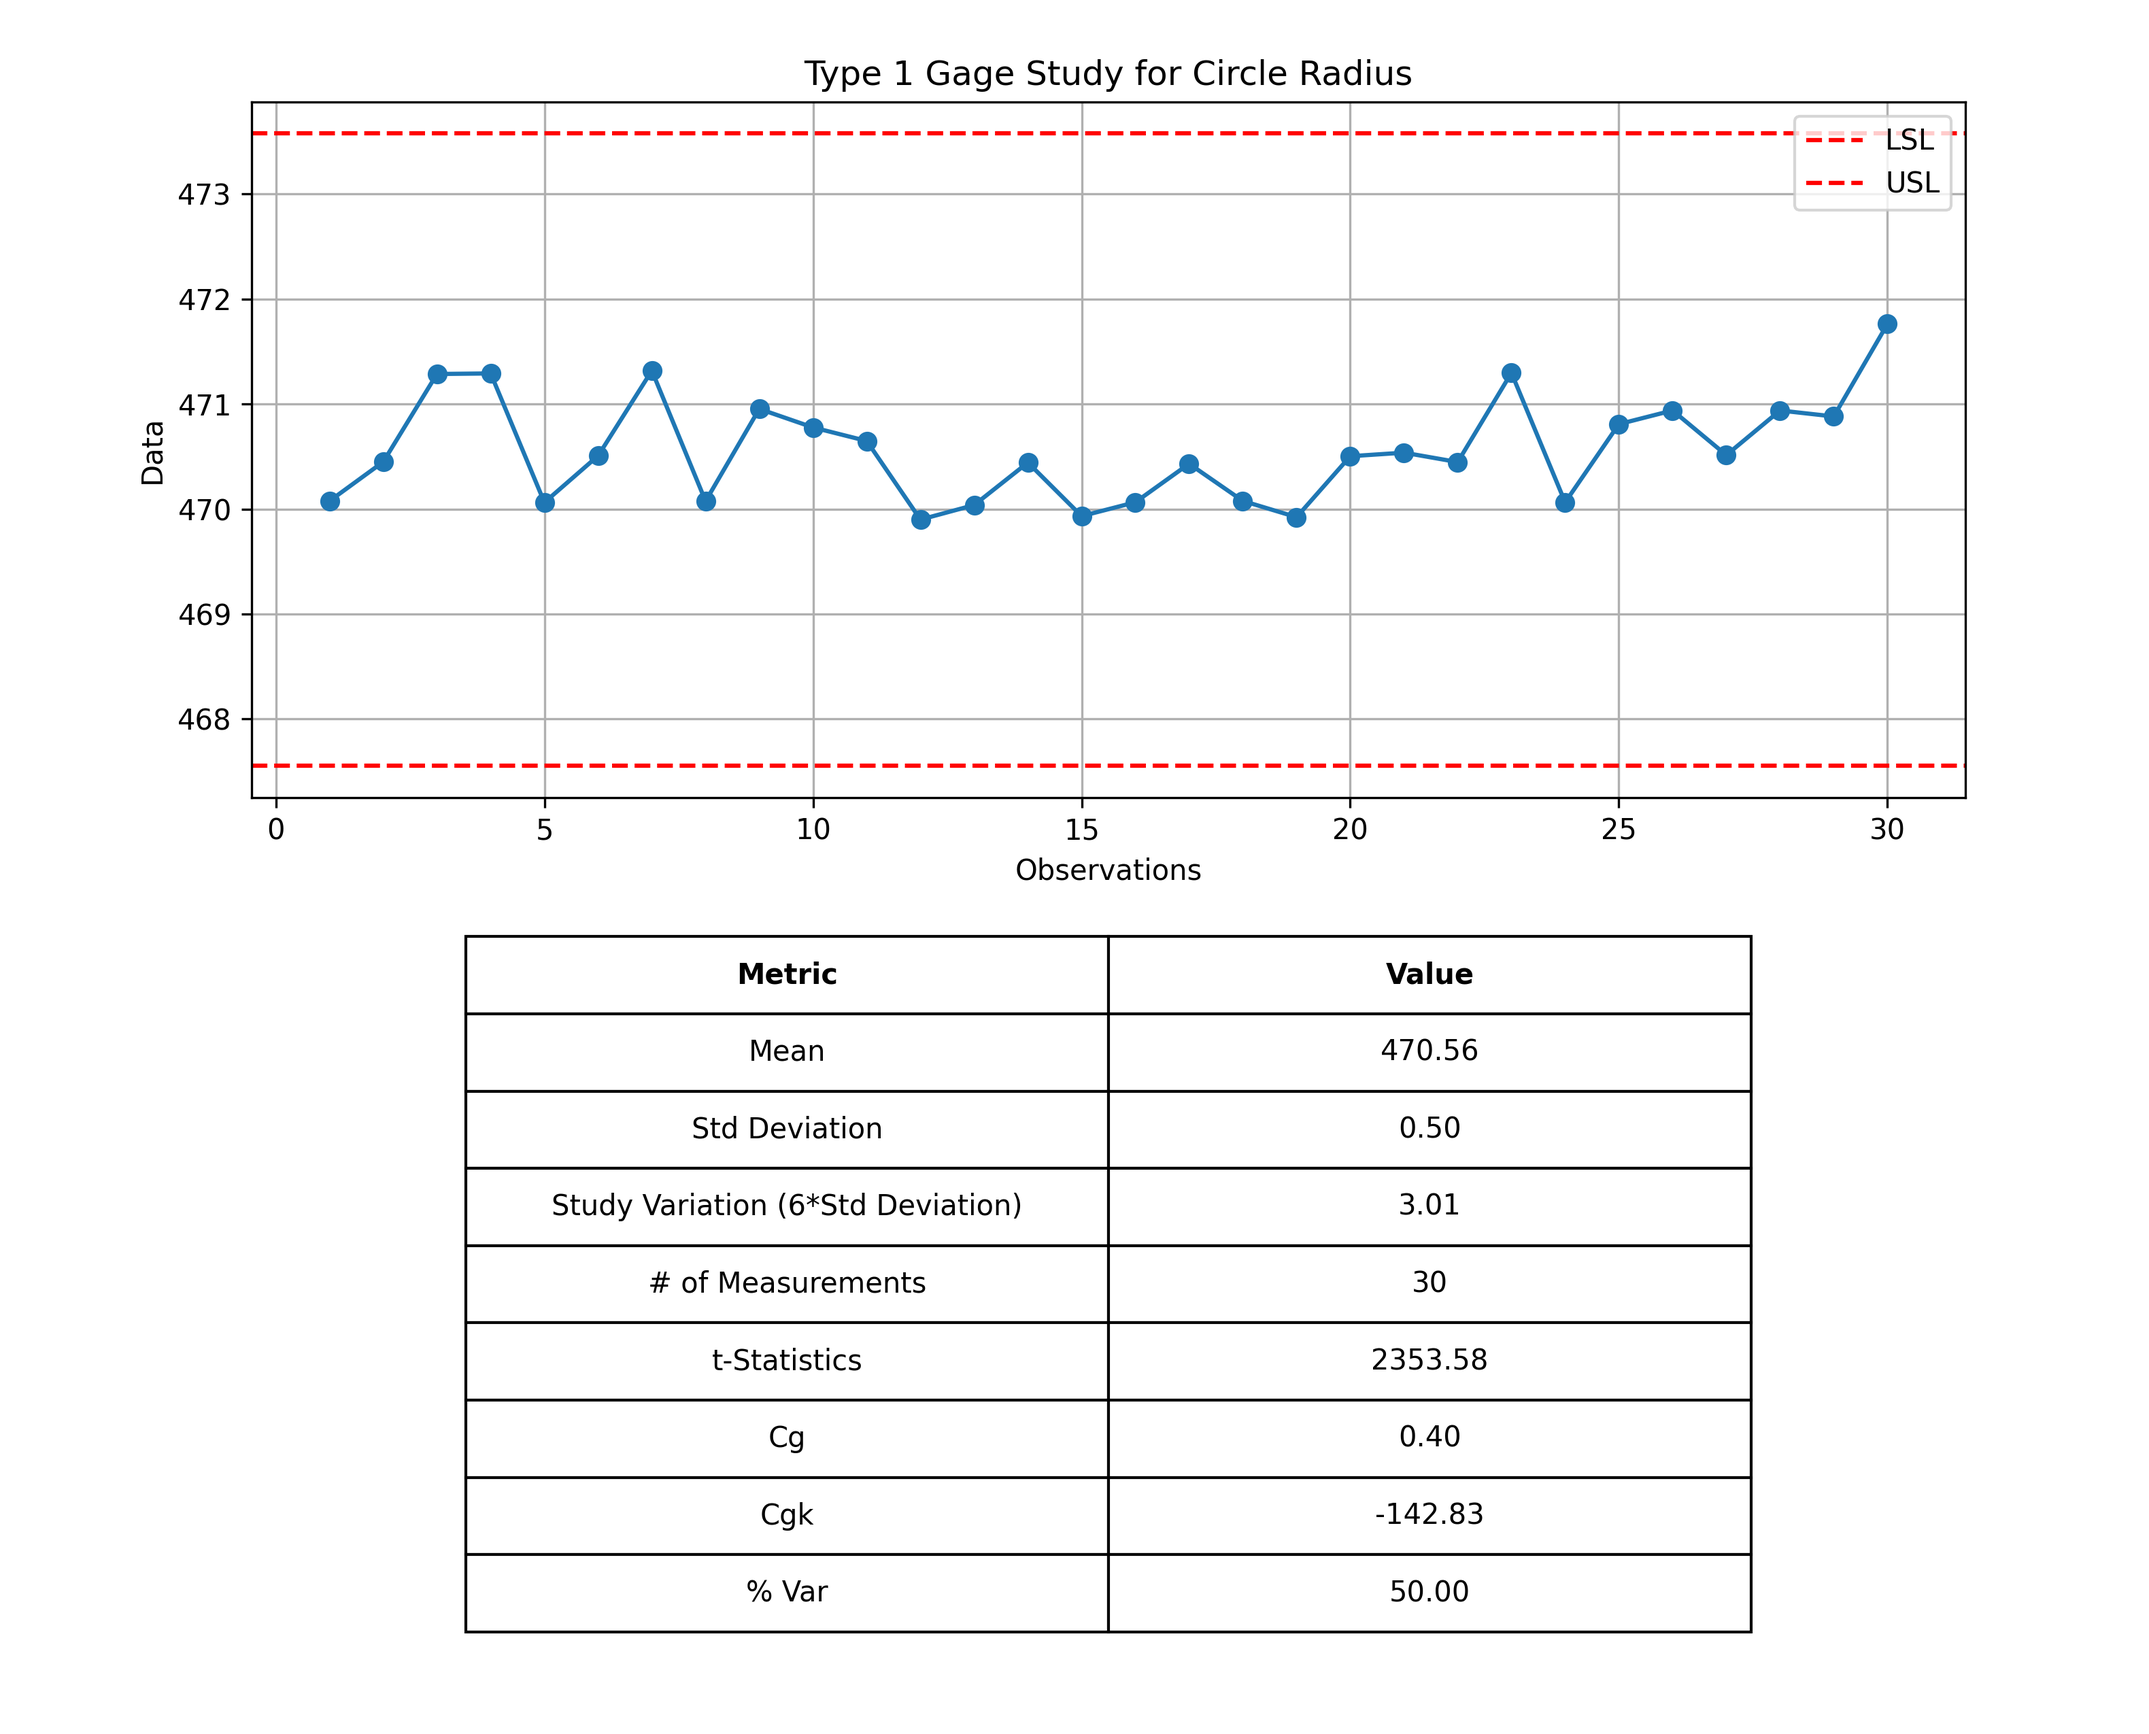
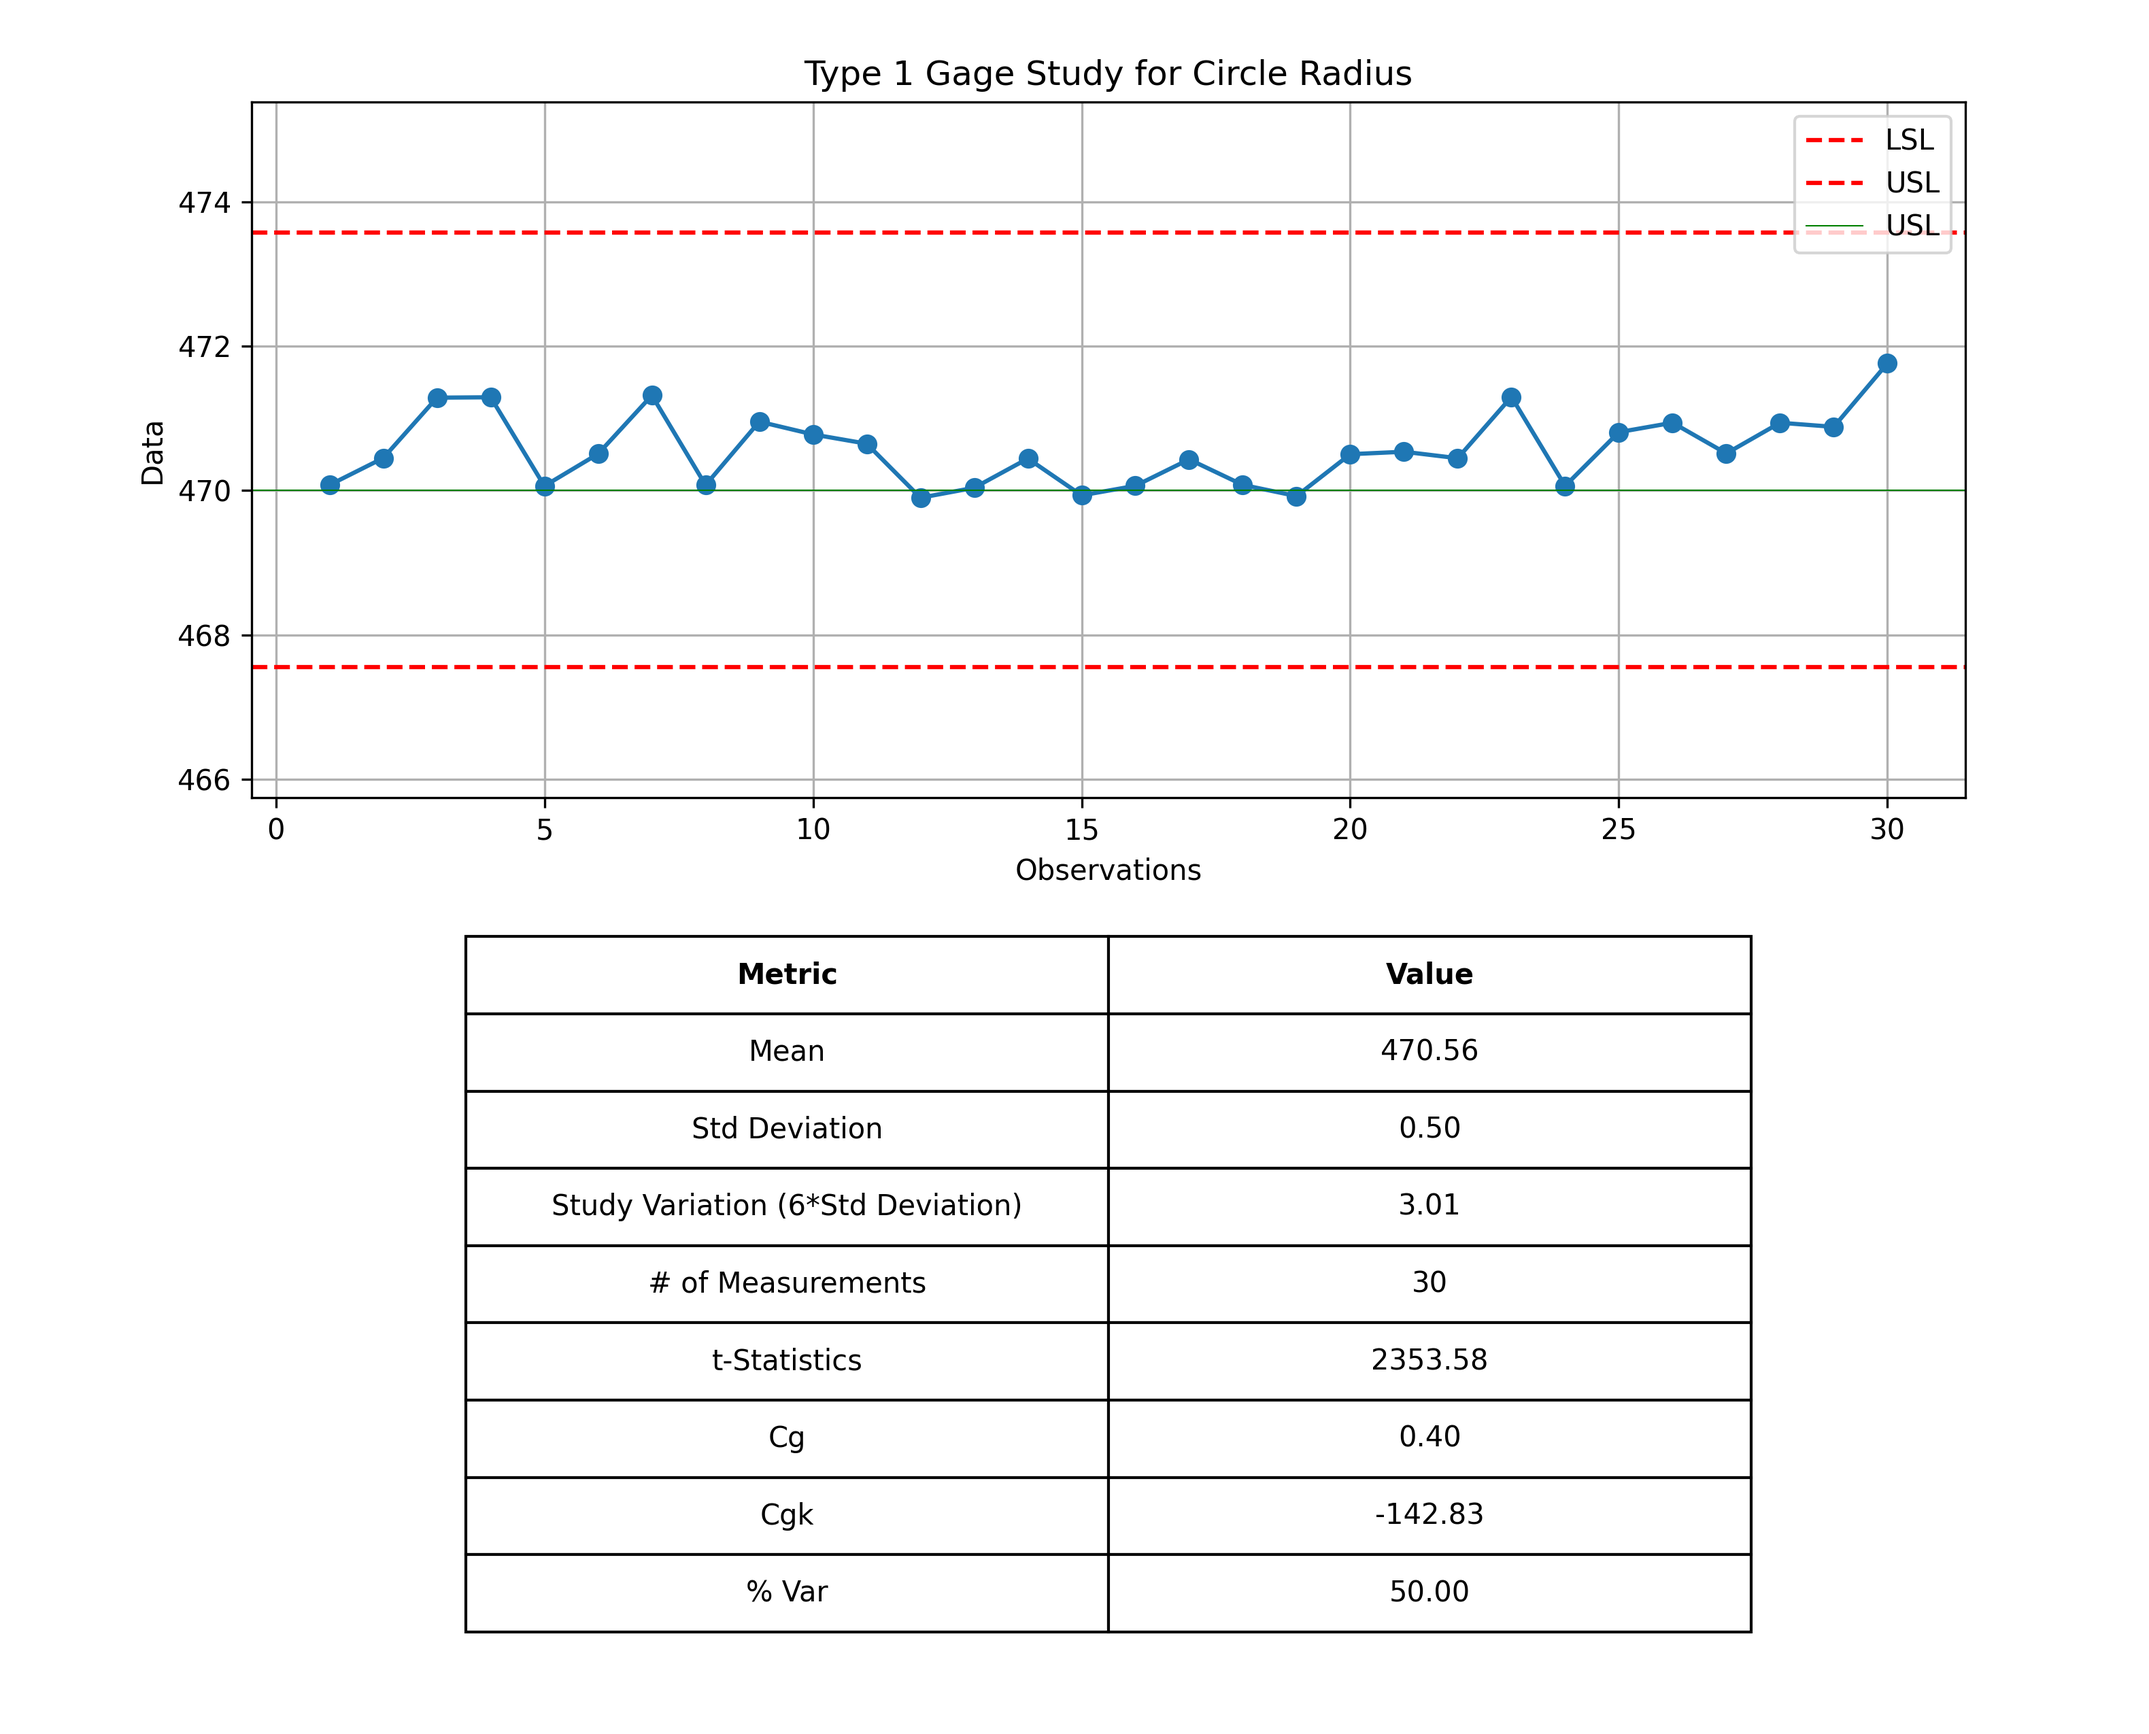
added ref value to graph genration

diff --git a/type1_calculations.py b/type1_calculations.py
@@ -199,11 +199,15 @@ def calculate_percent_var(file_path, sheet_name='Sheet1', col_index=None, K=20):
     return {'% Var': percent_var}
 
 #Graph generation
-def generate_graph(col_index = None):
+def generate_graph(col_index = None, ref_value=None):
     df = pd.read_excel(file_path, sheet_name=sheet_name)
 
+    # Validate col_index
     if col_index is None:
         raise ValueError("Column index is required.")
+    # Validate ref_value
+    if ref_value is None:
+        raise ValueError("Refrence Value is required.")
     if col_index < 0 or col_index >= len(df.columns):
         raise ValueError("Column index is out of range.")
     
@@ -233,7 +237,7 @@ def generate_graph(col_index = None):
 
     USL = tolerance['Tolerance']['USL']
     LSL = tolerance['Tolerance']['LSL']
-    range_buffer_percentage = 0.05  # Adjust the buffer percentage as needed
+    range_buffer_percentage = 0.30  # Adjust the buffer percentage as needed
     range_buffer = (USL - LSL) * range_buffer_percentage
     new_LSL = LSL - range_buffer
     new_USL = USL + range_buffer
@@ -247,6 +251,7 @@ def generate_graph(col_index = None):
     plt.ylim(new_LSL,new_USL)
     plt.axhline(y=LSL, color='r', linestyle='--', label='LSL')
     plt.axhline(y=USL, color='r', linestyle='--', label='USL')
+    plt.axhline(y=ref_value, color='g', linestyle='-', label='USL', lw=0.5)
     plt.grid(True)
     plt.legend()
 
@@ -288,7 +293,4 @@ def generate_graph(col_index = None):
 file_path = 'Data.xlsx'
 sheet_name = 'Sheet1'
 
-generate_graph(col_index=1)
-generate_graph(col_index=2)
-generate_graph(col_index=3)
-generate_graph(col_index=4)
+generate_graph(col_index=4, ref_value=470)
